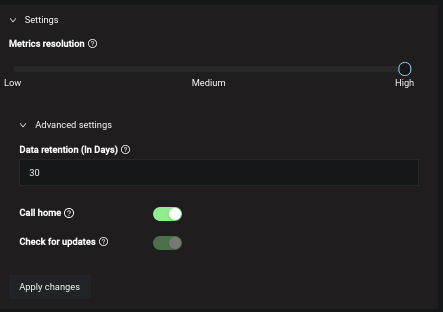
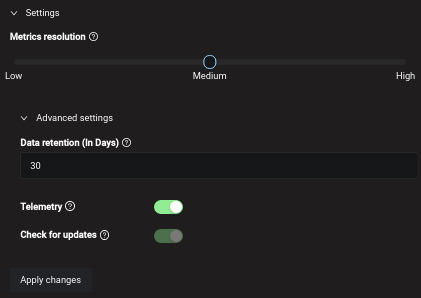
PMM-5486 telemetry doc update (#133)
* PMM-5486 update image for telemetry

* Add more details and links

* fix glossary page

* fixes based on comments

* mention docker option to disable telemetry

diff --git a/source/manage/server-admin-gui.rst b/source/manage/server-admin-gui.rst
@@ -28,6 +28,46 @@ as well as configure `telemetry <https://www.percona.com/doc/percona-monitoring-
 
 Don't forget to click the *Apply changes* button to make changed options work.
 
+.. _server-admin-gui-telemetry:
+
+Telemetry
+================================================================================
+
+The *Telemetry* switch enables gathering and sending basic **anonymous** data to
+ Percona, which helps us to determine where to focus the development
+and what is the uptake of the various versions of PMM. Specifically, gathering
+this information helps determine if we need to release patches to legacy
+versions beyond support, determining when supporting a particular version is no
+longer necessary, and even understanding how the frequency of release encourages
+or deters adoption.
+
+Currently, only the following information is gathered:
+
+* PMM Version,
+* Installation Method (Docker, AMI, OVF),
+* the Uptime.
+
+We do not gather anything that would make the system identifiable, but the
+following two things are to be mentioned:
+
+1. The Country Code is evaluated from the submitting IP address before it is
+   discarded.
+2. We do create an “instance ID” - a random string generated using UUID v4.
+   This instance ID is generated to distinguish new instances from existing
+   ones, for figuring out instance upgrades.
+
+.. note:: The first telemetry reporting of a new PMM Server instance is delayed
+   by 24 hours to allow sufficient time to disable the service for those that do
+   not wish to share any information.
+
+There is a landing page for this service, available at `check.percona.com <https://check.percona.com>`_,
+which clearly explains what this service is, what it’s collecting, and how you
+can turn it off.
+
+.. note:: The `Grafana internal reporting feature <https://grafana.com/docs/grafana/latest/installation/configuration/#reporting-enabled>`_ is currently **not** managed by PMM. If you want to turn it, you need to go inside the PMM Server container and `change configuration <https://grafana.com/docs/grafana/latest/installation/configuration/#reporting-enabled>`_ after each update.
+
+.. note:: Beside using *PMM Settings* page, you can also disable Telemetry with the ``-e DISABLE_TELEMETRY=1`` option in your docker run statement for the PMM Server.
+
 SSH Key Details
 ==========================================================================================================
 

diff --git a/source/glossary-terminology.rst b/source/glossary-terminology.rst
@@ -328,17 +328,18 @@ Terminology Reference
 `Telemetry <glossary-terminology.html#telemetry>`_
 --------------------------------------------------------------------------------
 
-      |percona| may collect some statistics about the machine where |pmm| is running.
+      |percona| may collect some **anonymous** statistics about the machine
+      where |pmm| is running.
 
-      This statistics includes the following information:
+      Currently, only the following information is gathered:
 
-      - |pmm-server| unique ID
-      - |pmm| version
-      - The name and version of the operating system, |ami| or virtual appliance
-      - |mysql| version
-      - |perl| version
+      * PMM Version,
+      * Installation Method (Docker, AMI, OVF),
+      * the Uptime,
+      * |pmm-server| unique ID.
 
-      You may disable telemetry on the *Settings* dashboard.
+      You may find :ref:`here<server-admin-gui-telemetry>` more details about what and how information is gathered,
+      and how to disable telemetry on the *Settings* dashboard, if needed.
 
 .. _Version:
 
